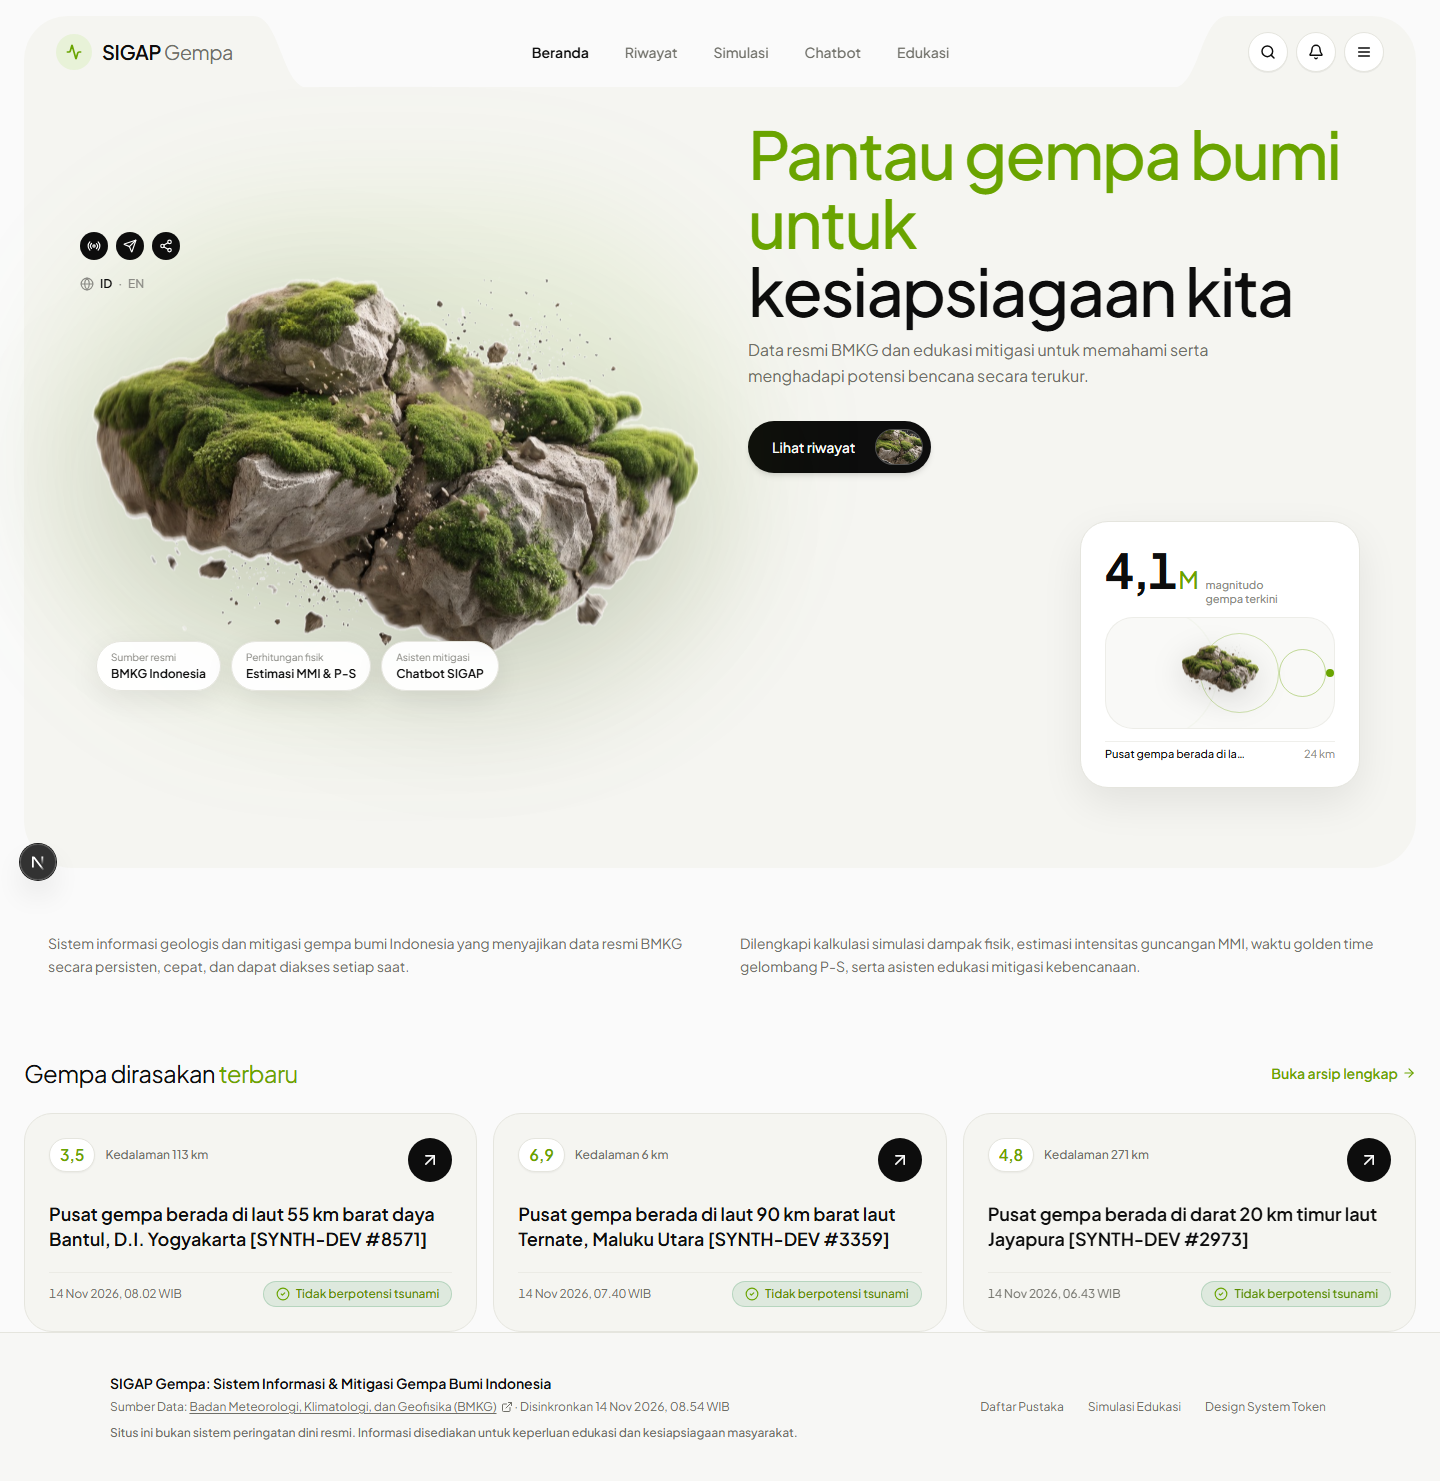
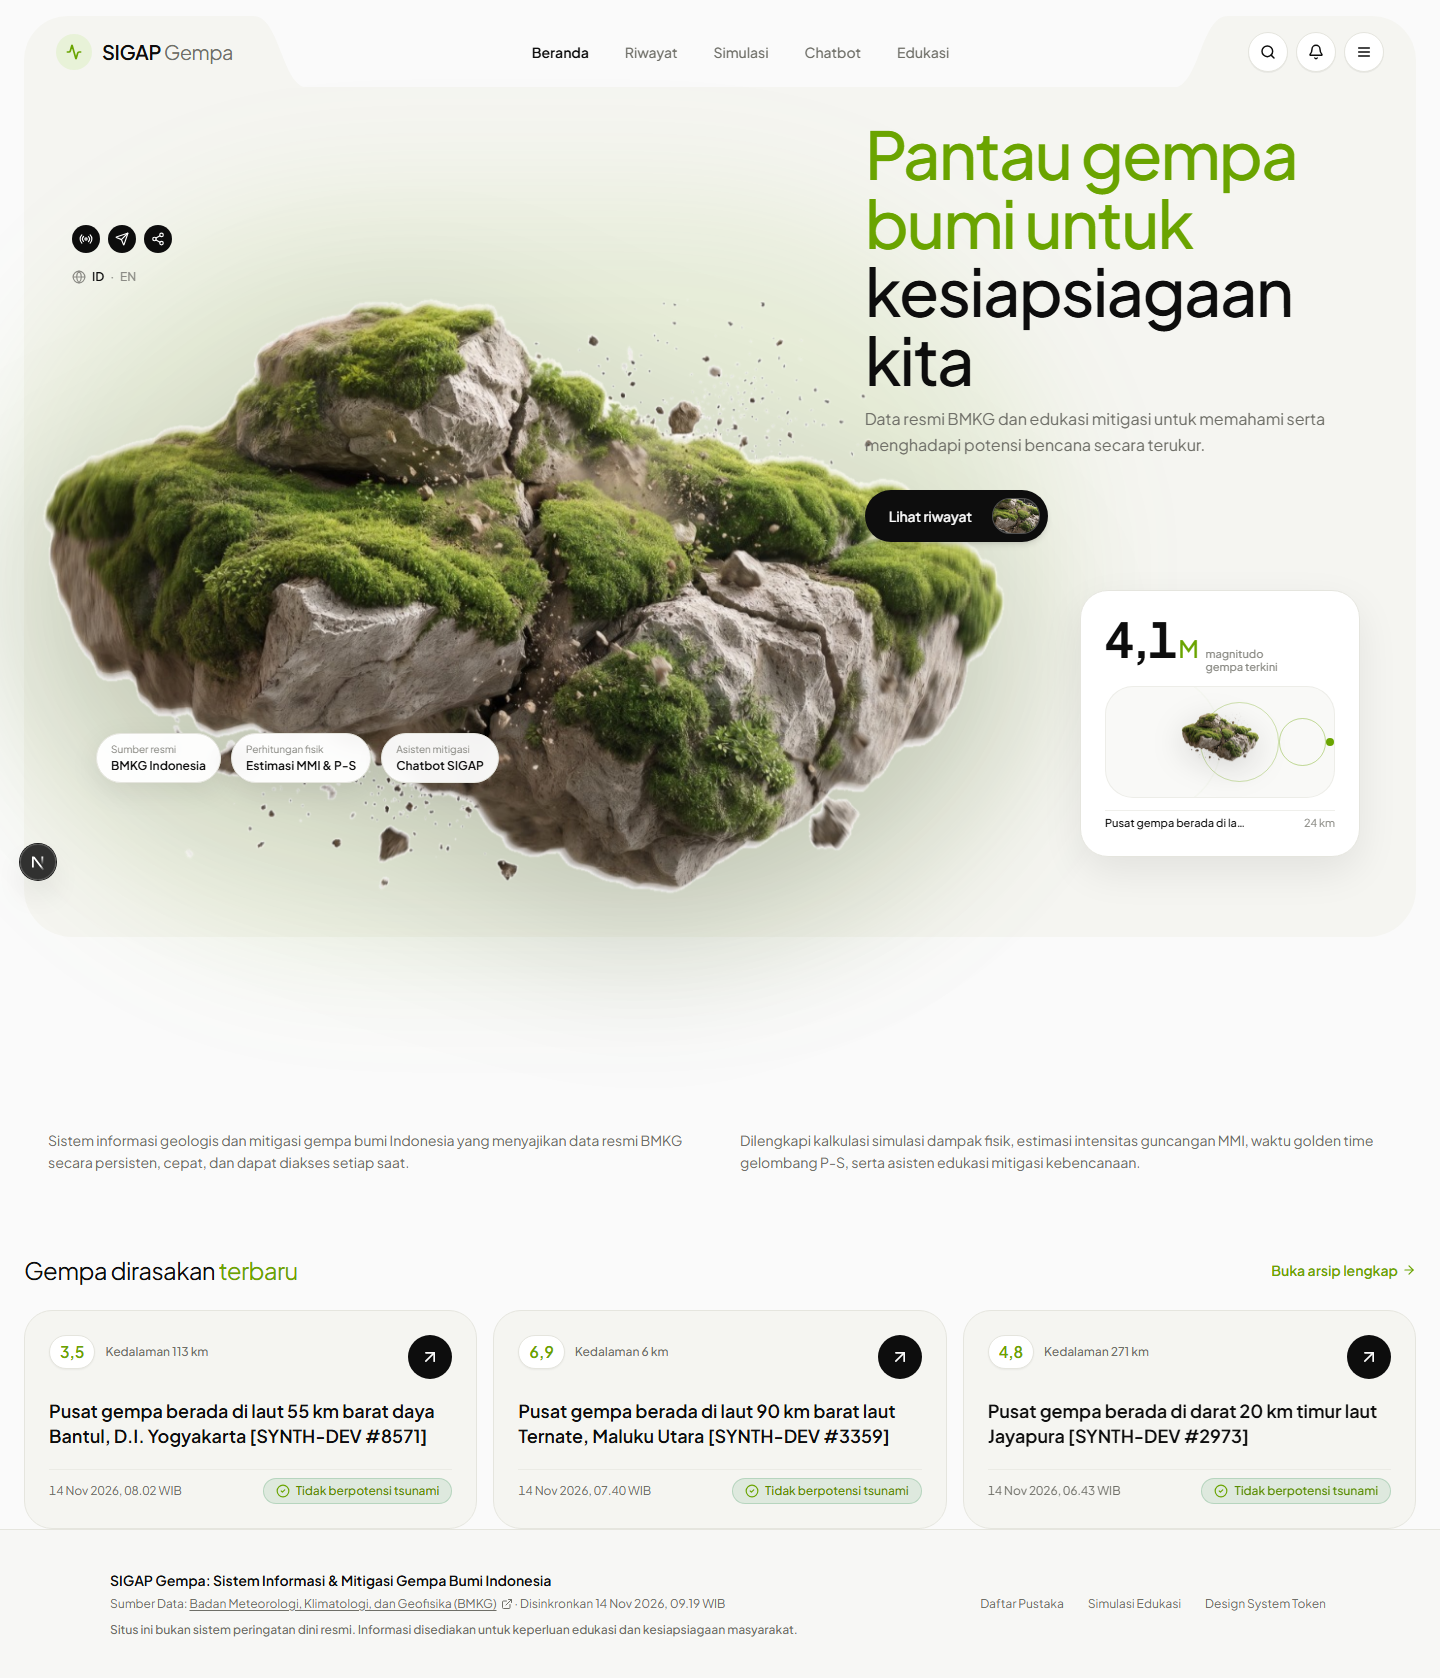
feat(hero): perbesar skala batuan tektonik secara masif menembus batas sesuai referensi

diff --git a/src/app/page.tsx b/src/app/page.tsx
@@ -157,11 +157,11 @@ export default async function HomePage() {
             {/* GRID UTAMA HERO */}
             <div className="grid grid-cols-1 lg:grid-cols-12 gap-8 lg:gap-6 items-center">
               
-              {/* KOLOM KIRI: TOOLBAR KECIL + ASET BATU TEKTONIK MELAYANG BESAR */}
-              <div className="lg:col-span-6 relative order-2 lg:order-1">
+              {/* KOLOM KIRI: TOOLBAR KECIL + ASET BATU TEKTONIK MELAYANG SANGAT BESAR PERSIS REFERENSI */}
+              <div className="lg:col-span-7 relative order-2 lg:order-1">
                 
                 {/* TOOLBAR KIRI: SOCIAL / LANGUAGE (PERSIS REFERENSI) */}
-                <div className="hidden sm:flex flex-col gap-4 absolute -top-2 left-0 z-20">
+                <div className="hidden sm:flex flex-col gap-4 absolute -top-4 -left-2 z-20">
                   <div className="flex items-center gap-2">
                     <button
                       type="button"
@@ -193,18 +193,18 @@ export default async function HomePage() {
                   </div>
                 </div>
 
-                {/* GAMBAR LEMPENG TEKTONIK PILIHAN USER (SKALA BESAR MENEMBUS BATAS) */}
-                <div className="relative mx-auto w-full max-w-[620px] lg:max-w-[700px] pt-4 sm:pt-2">
-                  <div className="pointer-events-none absolute -inset-8 rounded-full bg-[var(--color-primary)]/10 blur-3xl" />
+                {/* GAMBAR LEMPENG TEKTONIK SANGAT BESAR MENEMBUS KIRI & BAWAH */}
+                <div className="relative w-[110%] sm:w-[120%] lg:w-[135%] -left-4 sm:-left-8 lg:-left-14 -mb-20 sm:-mb-28 lg:-mb-36 xl:-mb-44 pt-2">
+                  <div className="pointer-events-none absolute -inset-10 rounded-full bg-[var(--color-primary)]/10 blur-3xl" />
                   <img
                     src="/images/tectonic-island.png"
                     alt="Fragmen lempeng tektonik bumi dengan batuan berlumut dan retakan seismik"
-                    className="relative w-full h-auto max-h-[500px] object-contain animate-floaty filter drop-shadow-[0_40px_70px_rgba(13,13,13,0.14)] select-none pointer-events-none"
+                    className="relative w-full h-auto max-h-[640px] xl:max-h-[720px] object-contain animate-floaty filter drop-shadow-[0_45px_80px_rgba(13,13,13,0.18)] select-none pointer-events-none"
                   />
                 </div>
 
                 {/* 3 BENEFIT CHIPS PUTIH DI SUDUT BAWAH BATU (PERSIS REFERENSI) */}
-                <div className="relative lg:absolute -bottom-6 left-0 sm:left-4 z-20 flex flex-wrap gap-2.5 pt-4 lg:pt-0">
+                <div className="relative lg:absolute -bottom-6 lg:-bottom-12 left-0 sm:left-4 z-20 flex flex-wrap gap-2.5 pt-4 lg:pt-0">
                   <div className="rounded-2xl border border-[var(--color-border)] bg-white/95 px-3.5 py-2.5 shadow-[0_8px_30px_rgba(13,13,13,0.08)] backdrop-blur-sm">
                     <p className="text-[10px] leading-none text-[var(--color-text-muted)]">Sumber resmi</p>
                     <p className="mt-1.5 text-[12px] font-semibold leading-none text-[var(--color-text-primary)]">
@@ -229,7 +229,7 @@ export default async function HomePage() {
               </div>
 
               {/* KOLOM KANAN: TIPOGRAFI HEADLINE + TOMBOL VIEW ALL + FLOATING STAT CARD */}
-              <div className="lg:col-span-6 order-1 lg:order-2 lg:pl-4 space-y-6 sm:space-y-8">
+              <div className="lg:col-span-5 order-1 lg:order-2 lg:pl-6 space-y-6 sm:space-y-8 z-20">
                 
                 {/* H1 HEADLINE TIPOGRAFI VERDRO (2 BARIS: HIJAU & HITAM) */}
                 <div className="space-y-3">
@@ -308,7 +308,7 @@ export default async function HomePage() {
         </section>
 
         {/* ================= DUA KOLOM CAPTION STRIP DI BAWAH CARD (PERSIS REFERENSI) ================= */}
-        <section aria-label="Ringkasan platform" className="px-2 sm:px-6">
+        <section aria-label="Ringkasan platform" className="px-2 sm:px-6 pt-16 sm:pt-24 lg:pt-32">
           <div className="grid grid-cols-1 md:grid-cols-2 gap-6 sm:gap-10 text-sm text-[var(--color-text-secondary)] leading-relaxed">
             <p>
               Sistem informasi geologis dan mitigasi gempa bumi Indonesia yang menyajikan data resmi BMKG secara persisten, cepat, dan dapat diakses setiap saat.
